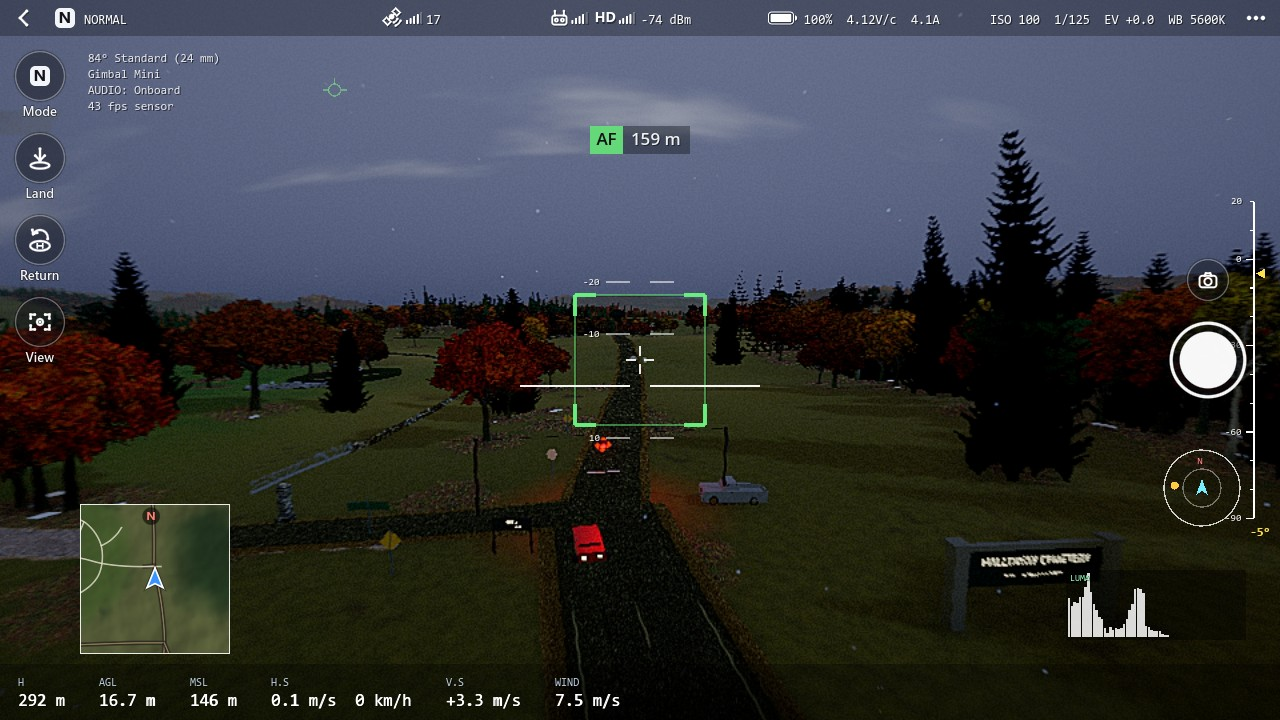
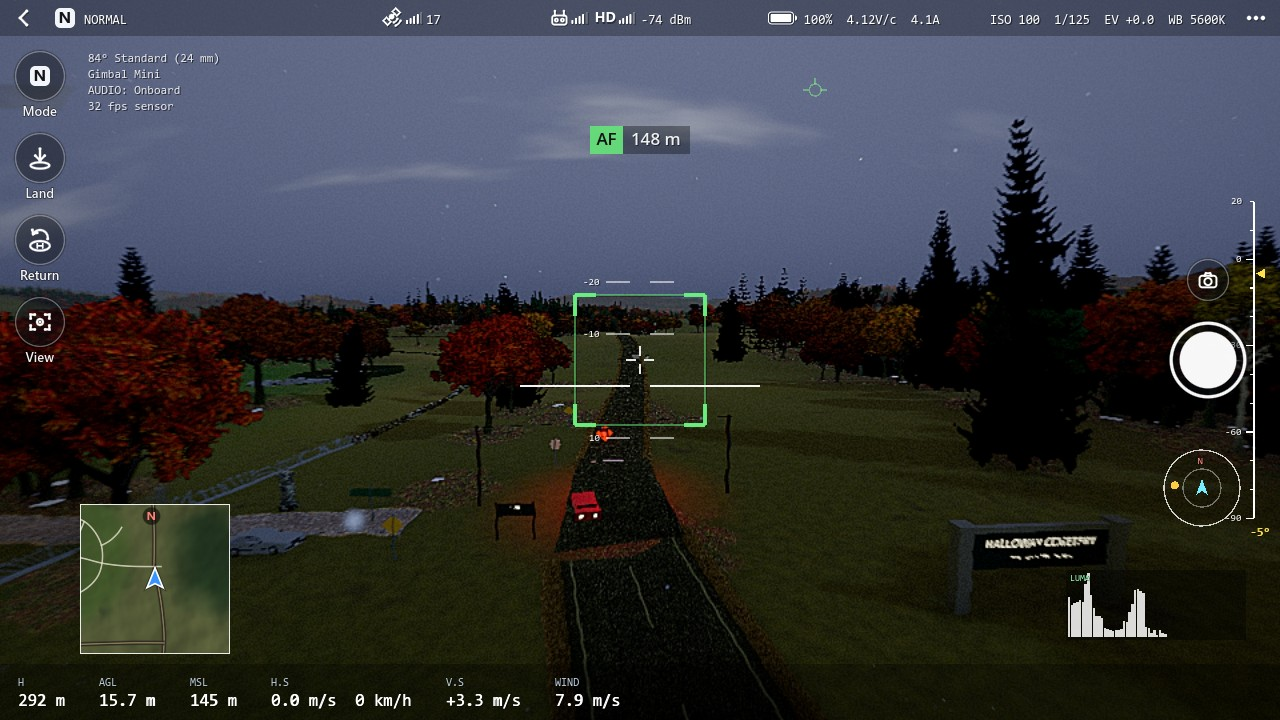
Clean junction geometry and remove road spaghetti: clip road and shoulder fragments inside a junction mask and build one convex-hull asphalt apron per junction from the approaching carriageways, instead of overlapping ribbons and roundabout discs. Remove the short gate, farm and festival asphalt spu

diff --git a/godot/docs/ROADS-REALISM.md b/godot/docs/ROADS-REALISM.md
@@ -43,12 +43,11 @@ The bigger place-making signs are in `game/landmark_signs.gd`:
 
 The road network now has explicit turnoffs instead of signs floating beside a through route:
 
-- **east gate drive:** east car park to the east cemetery gate;
-- **south, north and west gate drives:** each gate lane now reaches its own gate;
-- **Toby Farm drive:** a proper turn off the valley and lake junction into the farmyard;
-- the boat launch and festival lanes already existed, and the cabin, camp, garage and lake are reached from the ridge and lake roads.
+- the main lanes approach all four cemetery gates, and the east gate has its car park;
+- the short gate, farm and festival asphalt spurs were removed after they left untidy tongues at the junctions;
+- the boat launch lane remains a real access, and the cabin, camp, garage and lake are reached from the ridge and lake roads.
 
-The small gate, farm and field drives are excluded from the traffic route pool, so vehicles stay on the through roads rather than looping around a 10 m driveway loop. The cemetery audit now uses the actual wall line at 238 m, so gate driveways can reach the gate while the centreline still reports `inside_cemetery: 0`.
+The traffic route pool only uses the through roads, so vehicles do not loop around a 10 m driveway. The cemetery audit uses the actual wall line at 238 m and still reports `inside_cemetery: 0`.
 
 ### Location sign evidence
 
@@ -67,6 +66,16 @@ The final gateway and place-sign art is requested in `docs/CLAUDE-LOCATION-SIGNS
 - The beacons are scenery. Traffic does not stop for them, and there is no signal controller or give-way logic.
 - Evidence: `docs/realism/intersections/00_beacon_at_night.jpg`, `01_east_gate_beacon.jpg`, `02_south_junction.jpg`, `03_stop_ahead.jpg`.
 - Full notes: `docs/INTERSECTIONS.md`; final signal art request: `docs/CLAUDE-INTERSECTION-ASSETS.md`.
+## Junction cleanup
+
+The independent route ribbons used to run over each other at shared junctions, leaving overlapping shoulders and wedges. The fix is two-part:
+
+- the asphalt and gravel shaders discard any fragment inside a junction mask, so no route ribbon or shoulder is drawn across the crossing;
+- `roads.gd` builds a paved junction apron as the convex hull of the approaching carriageway corners. It is one asphalt patch, not a roundabout disc and not stacked ribbons.
+
+The very short gate, farm and festival spurs were removed from the road network because they produced long narrow tongues at the junctions. The gates, farm and festival still have their signs and approaches; they are reached by the lane, car park and park paths rather than by extra asphalt stubs.
+
+The result in the junction overviews is a clean T or corner with one surface, one set of edges and no overlapping shoulder geometry. Evidence: docs/realism/roads/15_junction_clean_east.jpg, 16_junction_clean_south.jpg, 17_junction_clean_farm.jpg.
 
 ### Sign evidence
 
@@ -89,9 +98,9 @@ The final gateway and place-sign art is requested in `docs/CLAUDE-LOCATION-SIGNS
 - There is no road camber, no banking and no deformation; the mesh still follows the terrain as a ribbon.
 - No guardrails, chevron boards, cattle grids or passing places yet. The delineator posts and the new stop, speed and warning signs are the main roadside furniture.
 - The sign art is placeholder: text plates and simple octagons and diamonds, not final reflective sign faces. Stop signs are scenery; traffic does not actually stop at them.
-- The big gateway is placeholder board-and-pillar geometry, not a designed entrance. Its lettering is Label3D, pushed in front of the board to stop z-fighting.
+- The big gateway is placeholder board-and-pillar geometry, not a designed entrance. Its lettering is Label3D, pushed in front of the board to stop z-fighting. The junction aprons are convex hulls of the approach carriageways; they remove overlapping ribbons but are still simple flat polygon patches.
 - Location and business boards are two-sided simple boxes; only the east gate has a large gateway sign.
-- Gate driveways end at the gates without formal parking bays; only the east car park has parked cars.
+- The gate and farm approaches are lanes, car park and park paths now; the short asphalt gate and farm spurs are gone. Only the east car park has formal parking and parked cars.
 - Speed signs show one plate at each route entry rather than a full sign schedule along every road.
 - The grass mask is 1024 px over 4 km, so the exact grass edge at the shoulder is coarse. The shader hides most of it, but a close inspection can find it.
 - The lane-width threshold is a simple width test; a future route can still opt in or out of markings only by changing its width.

diff --git a/godot/LOGIC-NOTES.md b/godot/LOGIC-NOTES.md
@@ -894,3 +894,18 @@ Every app screen now exists, and the story director is a real system rather than
   - INT4. Should STOP AHEAD be on every stop approach, or only the busier ones?
   - INT5. Should any junction become a full three-colour signal, or is flashing red the ceiling for this valley?
   - INT6. Should street-name blades be added at the main junctions?
+
+## Junction cleanup: no more road spaghetti (lane/notify, session B, 2026-11-15)
+- **The problem:** every route was drawn as an independent asphalt ribbon with its own shoulders. Where routes met, the ribbons overlapped into dark wedges, the shoulders crossed, and the short gate, farm and festival spurs produced long narrow tongues that read as spaghetti. The earlier circular junction patch made it worse by looking like a small roundabout.
+- **Shader clipping:** the asphalt and gravel shaders now sample the junction mask and discard fragments inside the apron. No route ribbon or shoulder is drawn across the crossing.
+- **Junction aprons:** `roads.gd` builds one paved apron per junction from the convex hull of the approaching carriageway corners. It is a single asphalt patch shaped by the roads that actually meet, not a circle and not stacked ribbons.
+- **Spurs removed:** the east, south, north and west gate asphalt driveways, the Toby Farm drive and the festival lane were taken out of the route network. They were the main source of the tongues. The main lanes still approach the gates, and the east gate has its car park. The gates are reached by the lanes, the car park and the park paths. The farm and festival stay as signed destinations off the main road rather than extra asphalt stubs. The boat launch lane remains because it is a real access.
+- **Traffic:** the route pool only uses the through roads, so vehicles do not loop around tiny driveways.
+- **Cemetery guard:** the audit still uses the actual wall line at 238 m and reports `inside_cemetery: 0`; no road centreline crosses the cemetery.
+- **Evidence:** `docs/realism/roads/15_junction_clean_east.jpg`, `16_junction_clean_south.jpg`, `17_junction_clean_farm.jpg`; the intersection beacon evidence was retaken at `docs/realism/intersections/`.
+- **Honest limits:** the junction aprons are simple convex polygons, not full kerbed junction geometry. The gates and farm do not have asphalt right up to their thresholds any more; the approach is lane, car park or park path. The hull shape can still look a little faceted from the air. The junction mask is a 1024 px raster. There are no painted turn arrows, stop-ahead road text or lane-use markings. The boat launch lane is still a short stub.
+- **Questions for Robert:**
+  - JUNC1. Is removing the little gate and farm asphalt spurs the right trade for clean junctions, or do you want proper gravel driveways built as separate meshes later?
+  - JUNC2. Should the junction aprons be smaller, larger, or shaped with visible kerbs?
+  - JUNC3. Should the farm and festival get a proper signed entrance road from the main road in a later pass?
+  - JUNC4. Should the gates have a gravel apron and parking bay just outside the wall?

diff --git a/godot/docs/ROADS-PLAN.md b/godot/docs/ROADS-PLAN.md
@@ -25,20 +25,14 @@ Every asphalt centreline stays outside a 248 m square around the cemetery. Insid
 | ridge road | north gate | garage and camp | the ridge and railway side |
 | cabin track | ridge at (45, -760) | old cabin | branch to the cabin |
 | lakeside lane | farm | lake overlook | south and west outside the park |
-| festival lane | valley at (286, 260) | festival field | festival field moved out of the cemetery to (300, 300) |
 | west boundary lane | lakeside lane at (-300, 300) | west gate | access to the west gate and close the ring |
 | boat launch lane | lakeside lane at (-410, 120) | boat launch apron | short lane to the Halloway Lake boat launch |
-| east gate drive | east car park at (270, 42) | east cemetery gate | connects the car park to the east gate |
-| south gate drive | south gate lane | south cemetery gate | connects the lane to the south gate |
-| north gate drive | north gate lane | north cemetery gate | connects the lane to the north gate |
-| west gate drive | west gate lane | west cemetery gate | connects the lane to the west gate |
-| Toby Farm drive | valley and lake junction | Toby Farm | turns off the main road into the farmyard |
 
 The four gates are now the only motor entrances to the cemetery. The east gate keeps its existing car park. The home pad and chapel are reached by the park paths, not by cars. The festival bus field has moved from inside the park at (24, -96) to the field at (300, 300), so the bus and festival are no longer parked among the graves.
 
 The boat launch lane leaves the lakeside lane at its old overlook end and runs the last few metres to the gravel apron at `CaseObjects.BOAT_LAUNCH_SPOT`, where the concrete ramp goes down into Halloway Lake. The launch itself is built in `game/boat_launch.gd`; see `docs/CLAUDE-BOAT-LAUNCH-ASSETS.md` for the asset brief.
 
-The four cemetery gates now have short driveways from the road network to the gate line, and the farm has its own driveway from the valley and lake junction. The large location and business signs are placed by `game/landmark_signs.gd`: the cemetery gateway at the east turn off, smaller gate boards at the other gates, and signs for Toby Farm, Voss and Son, Halloway Lake, the festival field, the ridge camp, the old cabin, the boat launch and the chapel. The art brief is `docs/CLAUDE-LOCATION-SIGNS-ASSETS.md`.
+The main lanes approach all four cemetery gates, and the east gate has its car park. The short asphalt gate, farm and festival spurs were removed after they left untidy tongues at the junctions. The gates are reached by the lanes, car park and park paths; the farm and festival remain signed destinations off the main road rather than extra asphalt stubs. The large location and business signs are placed by `game/landmark_signs.gd`: the cemetery gateway at the east turn off, smaller gate boards at the other gates, and signs for Toby Farm, Voss and Son, Halloway Lake, the festival field, the ridge camp, the old cabin, the boat launch and the chapel. The art brief is `docs/CLAUDE-LOCATION-SIGNS-ASSETS.md`.
 
 ## Map
 
